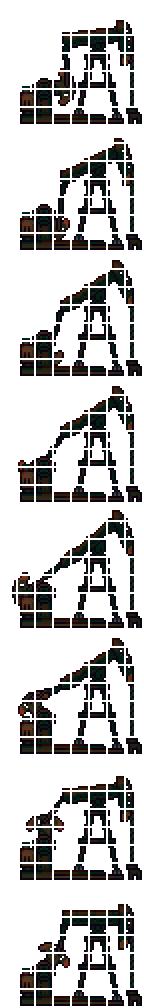
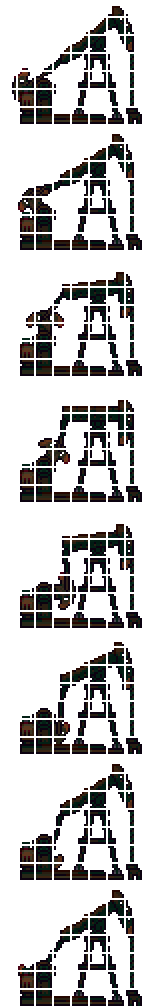
Moved Derrick 2 pixels and made huge adjustments to fix what I noticed while doing that

diff --git a/Tiles/Ashen/Oil_Derrick.cs b/Tiles/Ashen/Oil_Derrick.cs
@@ -1,15 +1,17 @@
-using Origins.Core;
+using Microsoft.Xna.Framework.Graphics;
+using Origins.Core;
 using Origins.World.BiomeData;
 using ReLogic.Utilities;
 using Terraria;
 using Terraria.Audio;
+using Terraria.Enums;
 using Terraria.ID;
 using Terraria.ModLoader;
 using Terraria.ObjectData;
 
 namespace Origins.Tiles.Ashen {
-	public class Oil_Derrick : ModTile, IComplexMineDamageTile {
-		Sound ambientSound = EnvironmentSounds.Register<Sound>();
+	public class Oil_Derrick : ModTile, IComplexMineDamageTile, IMultiTypeMultiTile {
+		readonly Sound ambientSound = EnvironmentSounds.Register<Sound>();
 		public override void Load() => new TileItem(this).RegisterItem();
 		public override void SetStaticDefaults() {
 			Main.tileFrameImportant[Type] = true;
@@ -19,6 +21,9 @@ namespace Origins.Tiles.Ashen {
 			TileObjectData.newTile.Width = 8;
 			TileObjectData.newTile.SetHeight(7);
 			TileObjectData.newTile.SetOriginBottomCenter();
+			TileObjectData.newTile.HookPlaceOverride = MultiTypeMultiTile.PlaceWhereTrue(TileObjectData.newTile, IsPart);
+			TileObjectData.newTile.AnchorBottom = new(AnchorType.SolidTile, TileObjectData.newTile.Width - 1, 1);
+			TileObjectData.newTile.FlattenAnchors = true;
 			this.SetAnimationHeight();
 			TileObjectData.addTile(Type);
 			AddMapEntry(new Color(40, 30, 18), this.GetTileItem().DisplayName);
@@ -28,6 +33,13 @@ namespace Origins.Tiles.Ashen {
 		public override bool CanExplode(int i, int j) => false;
 		public override void AnimateTile(ref int frame, ref int frameCounter) {
 			if (frameCounter.CycleUp(8)) frame.CycleUp(7);
+		}
+		public override bool PreDrawPlacementPreview(int i, int j, SpriteBatch spriteBatch, ref Rectangle frame, ref Vector2 position, ref Color color, bool validPlacement, ref SpriteEffects spriteEffects) {
+			position.Y += 2;
+			return base.PreDrawPlacementPreview(i, j, spriteBatch, ref frame, ref position, ref color, validPlacement, ref spriteEffects);
+		}
+		public override void SetDrawPositions(int i, int j, ref int width, ref int offsetY, ref int height, ref short tileFrameX, ref short tileFrameY) {
+			offsetY = 2;
 		}
 		public override void NearbyEffects(int i, int j, bool closer) {
 			if (closer) return;
@@ -43,9 +55,45 @@ namespace Origins.Tiles.Ashen {
 					playingSound.Volume = 0.2f / float.Max(pos.DistanceSQ(Main.Camera.Center) / (16 * 20 * 16 * 20), 1);
 					return true;
 				});
-				if (Main.tileFrame[type] == 1) SoundEngine.PlaySound(SoundID.Item108.WithPitch(-1.4f).WithVolume(0.32f * mult), position);
+				if (Main.tileFrame[type] == 5) SoundEngine.PlaySound(SoundID.Item108.WithPitch(-1.4f).WithVolume(0.32f * mult), position);
 				if (Main.rand.NextBool(150)) SoundEngine.PlaySound(SoundID.Item148.WithPitch(-0.5f).WithVolume(0.48f * mult), position);
 			}
 		}
+		public static bool IsPart(int i, int j) {
+			switch (i, j) {
+				case (0, 0):
+				case (0, 1):
+				case (0, 2):
+				case (0, 3):
+				case (0, 6):
+
+				case (1, 0):
+				case (1, 1):
+				case (1, 2):
+
+				case (2, 0):
+				case (2, 1):
+				case (2, 2):
+
+				case (3, 0):
+				case (4, 0):
+				case (5, 0):
+				return false;
+			}
+			return true;
+		}
+
+		public bool IsValidTile(Tile tile, int left, int top) {
+			(int i, int j) = tile.GetTilePosition();
+			i -= left;
+			j -= top;
+			if (IsPart(i, j)) {
+				if (tile.TileType != Type) return false;
+				Tile topLeft = Main.tile[left, top];
+				return tile.TileFrameX == topLeft.TileFrameX + i * 18 && tile.TileFrameY == topLeft.TileFrameY + j * 18;
+			}
+			return true;
+		}
+		public bool ShouldBreak(int x, int y, int left, int top) => IsPart(x - left, y - top);
 	}
 }

diff --git a/Core/MultiTypeMultiTile.cs b/Core/MultiTypeMultiTile.cs
@@ -162,7 +162,7 @@ namespace Origins.Core {
 			c.EmitLdloc(coordinateSets[correctIndex].x);
 			c.EmitLdloc(coordinateSets[correctIndex].y);
 			c.EmitDelegate((int tileType, Tile tile, int left, int top) => {
-				return TileLoader.GetTile(tileType) is IMultiTypeMultiTile multiTypeMultiTile && multiTypeMultiTile.IsValidTile(tile, left, top);
+				return TileLoader.GetTile(tileType) is IMultiTypeMultiTile multiTypeMultiTile && (multiTypeMultiTile.CanBlockPlacement(tile, left, top) || multiTypeMultiTile.IsValidTile(tile, left, top));
 			});
 			c.EmitBrtrue(label);
 		}
